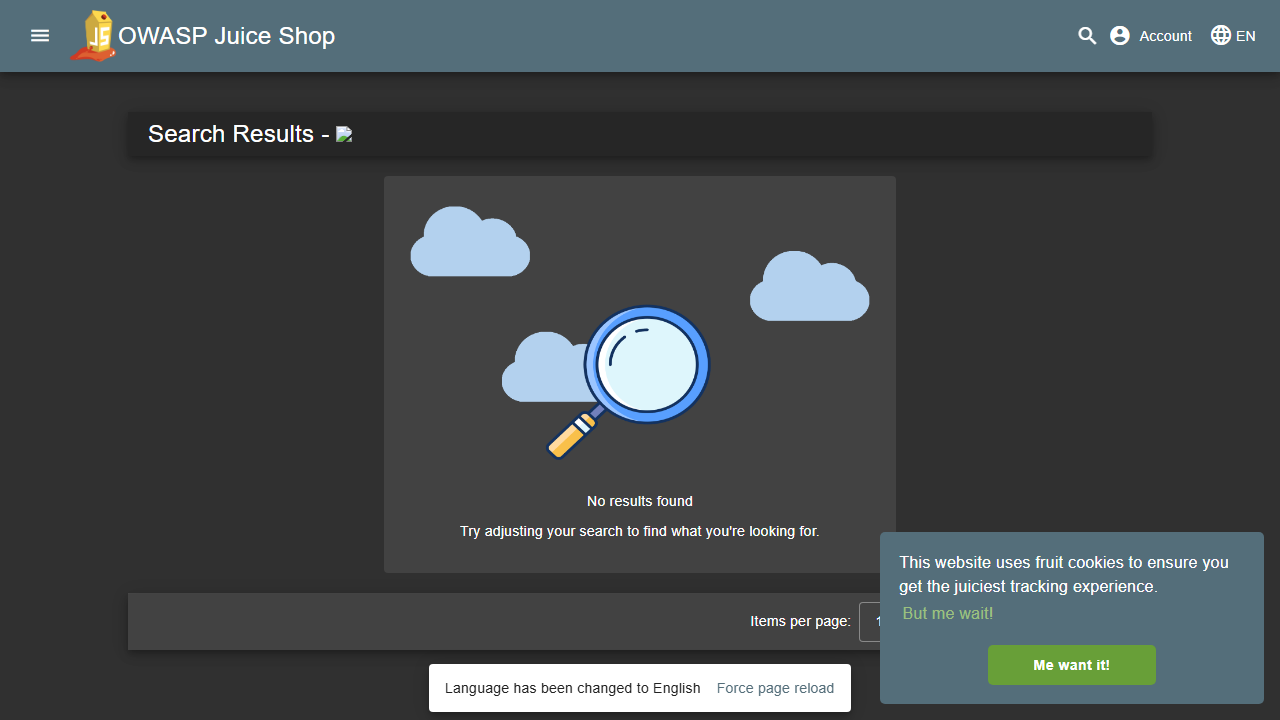
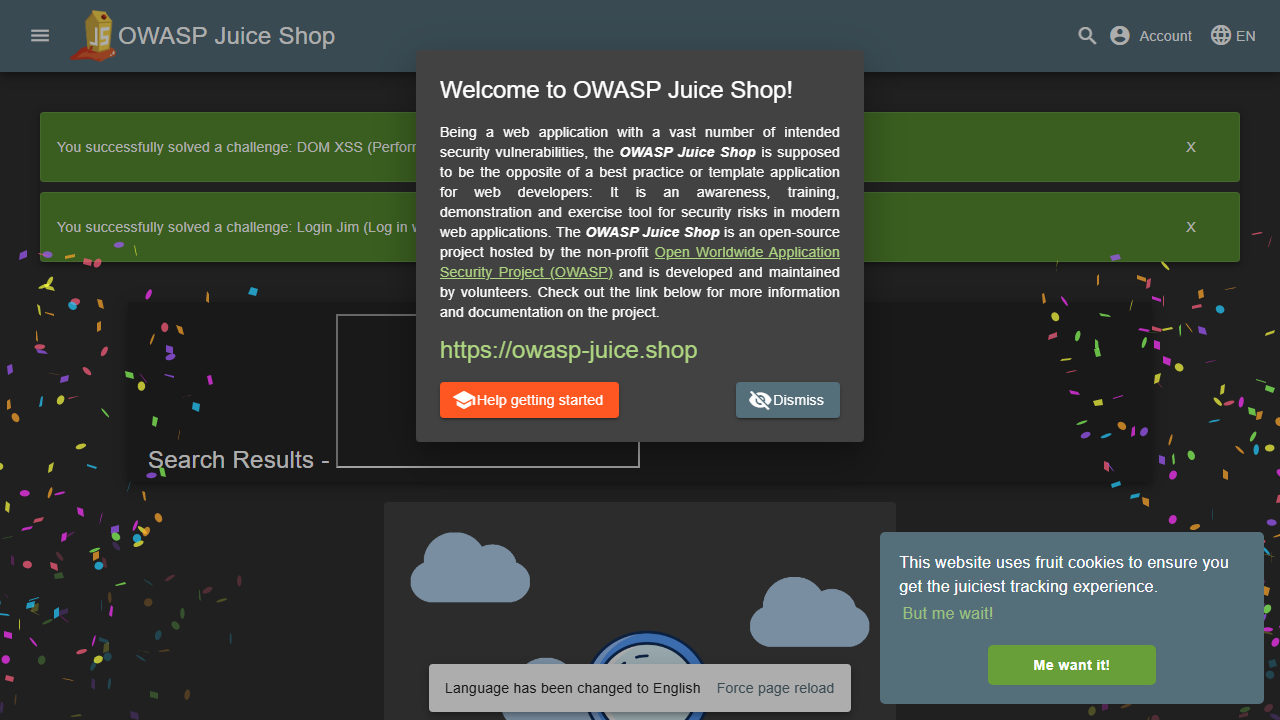
Evidence of Findings + about section

diff --git a/src/gui.py b/src/gui.py
@@ -336,7 +336,7 @@ class PenteraXApp(ctk.CTk):
         if self._replay_var.get():
             self._mode_label.configure(text="MODE: [REPLAY]", text_color="orange")
         else:
-            self._mode_label.configure(text="MODE: LIVE", text_color=None)
+            self._mode_label.configure(text="MODE: LIVE", text_color=("gray10", "gray90"))
 
     # ---------- Preflight -------------------------------------------------
 
@@ -397,7 +397,7 @@ class PenteraXApp(ctk.CTk):
         for name in _PHASE_NAMES:
             self._phase_labels[name].configure(
                 text=f"  —  {name.capitalize():15s}  waiting",
-                text_color=None,
+                text_color=("gray10", "gray90"),
             )
 
         if replay:

diff --git a/ABOUT.md b/ABOUT.md
@@ -1,0 +1,104 @@
+# PenteraX — About the Project
+
+## Inspiration
+
+The cybersecurity industry faces a persistent bottleneck: penetration testing is expensive, slow, and scarce. Skilled pentesters are in short supply, and manual assessments can take weeks for a single application. We asked ourselves — *what if an AI agent could autonomously execute a structured penetration test, from reconnaissance to exploitation to reporting, in minutes instead of days?*
+
+The idea crystallized around two converging trends: the rise of agentic AI (LLMs that can reason, plan, and use tools in a loop) and the availability of deliberately vulnerable applications like OWASP Juice Shop that provide realistic attack surfaces. We were inspired by the ShannonAI paradigm (information-theoretic reconnaissance — maximize signal, minimize noise) and the PentAI concept (autonomous agents with structured exploit chains). PenteraX merges both: a hybrid system where deterministic pre-collection feeds high-quality context to an LLM agent that reasons about vulnerabilities, generates hypotheses, crafts exploits, and writes a professional report — all without human intervention.
+
+We also wanted to prove that this kind of tool could be built in a 24-hour hackathon. Not a toy demo, but a working pipeline that finds real vulnerabilities and produces evidence-backed findings.
+
+## What We Learned
+
+**LLMs are surprisingly effective pentesters — with the right scaffolding.** Raw prompting produces hallucinated findings. But when you feed an agent real source code analysis, real nmap scan results, and real HTTP probe data, it reasons accurately about injection points, crafts working payloads, and adapts when its first attempt fails. The key insight was that *the quality of the pre-collected context determines the quality of the agent's output*.
+
+**Prompt engineering for security is its own discipline.** We went through 3+ full iteration cycles on each prompt template (recon, analysis, exploit, report) across five vulnerability verticals — SQL injection, XSS, broken authentication, broken authorization/IDOR, and SSRF. Small wording changes in the exploit prompts (e.g., explicitly telling the agent to URL-encode payloads, or to use UNION SELECT with the exact column count from recon) made the difference between a working proof-of-concept and a wasted API call.
+
+**Browser automation is essential for modern web exploits.** Many vulnerabilities — especially DOM-based XSS, stored XSS, and UI-level authentication bypasses — cannot be proven with curl alone. Integrating Playwright as an in-process tool the agent could call (navigate, click, type, evaluate JavaScript, capture screenshots) was a force multiplier. The agent could trigger an XSS payload and capture the resulting `alert()` dialog as evidence, just like a human pentester would.
+
+**Race conditions hide everywhere in concurrent pipelines.** Running multiple analysis agents in parallel (injection, XSS, auth, authz, SSRF) against a shared Playwright browser and a shared cost-tracking budget required careful locking. We identified and fixed over 15 potential race conditions during the design review phase.
+
+**Cost management matters.** Claude API calls for multi-turn agentic loops can get expensive fast. We implemented per-phase budget tracking with a global lock, exponential-backoff retry on transient errors, context-window overflow guards that truncate reference material, and a configurable browser call budget (default 50 per run) to prevent runaway costs.
+
+## How We Built It
+
+### Architecture
+
+PenteraX is a **4-phase sequential pipeline** orchestrated by Python:
+
+```
+Phase 0 (Recon) → Phase 1 (Analysis) → Phase 2 (Exploit) → Phase 3 (Report)
+```
+
+Each phase loads a prompt template, injects skill outputs as template variables, runs the Claude agent with MCP-style tool definitions, validates the deliverable, and retries on failure (up to 3×).
+
+### Core Components
+
+| Component | Role |
+|-----------|------|
+| **`pipeline.py`** | Orchestrates the 4-phase pipeline, manages retries and deliverable validation |
+| **`agent_runner.py`** | Wraps the Anthropic API with budget tracking, exponential backoff, and cooperative stop |
+| **`agent_loop.py`** | Exposes 15+ MCP-compatible tool definitions (nmap, sqlmap, HTTP requests, CVE lookup, Playwright browser actions, deliverable saving) so the agent can act on the world |
+| **`precollect.py`** | Hybrid pre-collection: source code grep analysis, nmap scanning, HTTP endpoint probing — all run before the agent to maximize context quality |
+| **`playwright_bridge.py`** | Singleton Playwright manager: headless Chromium with thread-safe locking for navigate, click, type, screenshot, evaluate, and network capture |
+| **`skill_loader.py`** | Dynamic skill discovery and registration from the `skills/` directory |
+| **`gui.py`** | CustomTkinter desktop GUI with config panel, live log stream, phase status indicators, budget display, and replay mode |
+| **`cli.py`** | Full CLI with subcommands for pipeline execution, skill management, deliverable validation, and CVE lookup |
+
+### Vulnerability Coverage
+
+We built dedicated analysis and exploit prompt chains for **9 vulnerability classes**:
+
+- SQL Injection (union-based, boolean-based, auth bypass)
+- NoSQL Injection (operator injection on MongoDB endpoints)
+- XXE (XML External Entity via file upload and B2B endpoints)
+- Path Traversal (directory traversal, null byte bypass)
+- Server-Side Template Injection (Pug/Jade on B2B endpoints)
+- Cross-Site Scripting (reflected, stored, DOM-based, JSONP, header-based)
+- Broken Authentication (SQL injection bypass, JWT manipulation, default creds)
+- Broken Authorization / IDOR (direct object reference, privilege escalation)
+- SSRF (URL-based via profile image upload)
+
+### Target
+
+We tested against **OWASP Juice Shop** running on AWS (`http://54.146.141.88:3000`), a deliberately vulnerable web application that realistically simulates a modern Node.js/Angular e-commerce platform backed by SQLite and Sequelize ORM.
+
+### Results
+
+In a single automated run, PenteraX identified **29 confirmed vulnerabilities** (8 Critical, 12 High, 9 Medium) — including complete database compromise via union-based SQL injection extracting all 41 user credential hashes, authentication bypass for admin accounts, XXE file disclosure, and business logic flaws enabling financial fraud through negative quantity purchases.
+
+### Tech Stack
+
+- **Python 3.11+** — core pipeline, CLI, GUI
+- **Anthropic Claude API** (claude-sonnet-4-20250514) — agentic reasoning engine
+- **Playwright** — headless Chromium browser automation for XSS proof and DOM interaction
+- **CustomTkinter** — cross-platform desktop GUI
+- **nmap / sqlmap** — network reconnaissance and SQL injection automation
+- **requests** — HTTP probing and exploit delivery
+
+## Challenges We Faced
+
+### 1. Context Window Management
+The biggest technical challenge was fitting enough context into a single agent turn. Source code analysis of Juice Shop alone can produce thousands of lines. We had to implement configurable line limits per pattern category (`_MAX_MATCHES_PER_CATEGORY = 60`), strategic truncation of reference material, and a hybrid approach where deterministic pre-collection extracts only the most relevant code patterns (SQL queries, route handlers, sanitizer calls) rather than dumping everything.
+
+### 2. Playwright Thread Safety
+Playwright's `sync_api` is not thread-safe, but we needed multiple analysis agents to share a single browser instance during parallelized Phase 1. We solved this with a singleton `PlaywrightManager` using a `threading.RLock` around every public method, plus a per-run call budget to prevent infinite loops of browser actions.
+
+### 3. Prompt Iteration Under Time Pressure
+Getting the exploit prompts right required meticulous iteration. Early versions produced payloads that were syntactically correct but missed critical details — wrong column counts for UNION injection, missing URL encoding, or XSS payloads that triggered in the wrong context. We went through 3+ full cycles per vulnerability vertical, each time running the pipeline end-to-end and analyzing where the agent's reasoning diverged from reality.
+
+### 4. Race Conditions in Budget Tracking
+Multiple agents running concurrently all deduct from a shared USD budget. Without locking, two agents could both read the remaining budget as "$2.00", both decide they can afford a $1.50 call, and blow past the limit. We used `threading.Lock` for all budget mutations and `threading.Event` for cooperative stop signaling, catching `PipelineAbortedError` at every tool dispatch boundary.
+
+### 5. Reliable Deliverable Validation
+The agent's markdown output needed to match specific schemas (recon reports must have a Technology Stack table, findings must have CWE/CVSS fields, etc.). Early runs produced structurally invalid output that passed the agent's own checks but failed our validation schema. We built a `response_analysis_validate` tool with strict section/field checking and wired it into a retry loop — if validation fails, the agent gets the error list and tries again, up to 3 times.
+
+### 6. Cross-Platform Compatibility
+Nmap and sqlmap aren't available on all platforms. We implemented graceful degradation: if nmap isn't installed, the pre-collection step returns a descriptive fallback message instead of crashing. WhatWeb has a Python-based fallback. The pipeline adapts its prompts based on what data was actually collected.
+
+### 7. Coordinating a 6-Phase Hackathon Build
+We structured the 24-hour build into 6 explicit phase gates with dependency graphs and parallel work streams. Three engineers worked simultaneously on infrastructure (Stream A), injection/recon (Stream B), and XSS/reporting (Stream C) with zero file conflicts. The rigid phase-gate discipline — "don't start Phase 3 until Gate 2 passes" — kept us honest and prevented integration nightmares.
+
+---
+
+*Built in 24 hours. Finds 29 vulnerabilities autonomously. PenteraX proves that agentic AI can transform penetration testing from a weeks-long manual engagement into a push-button automated assessment.*
